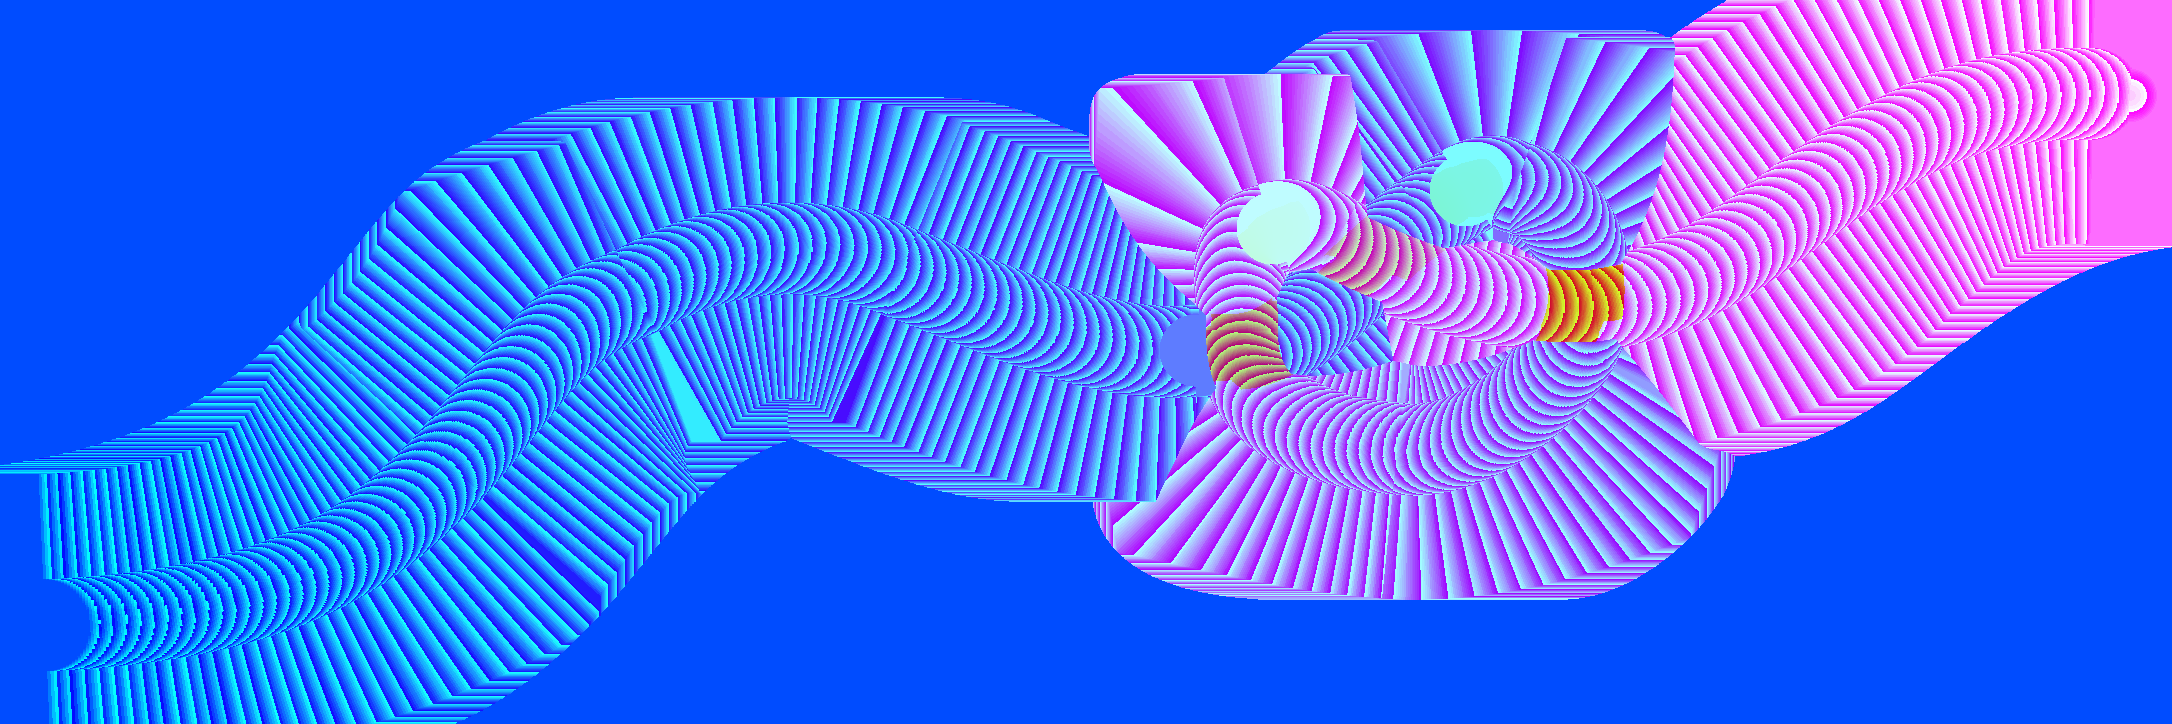
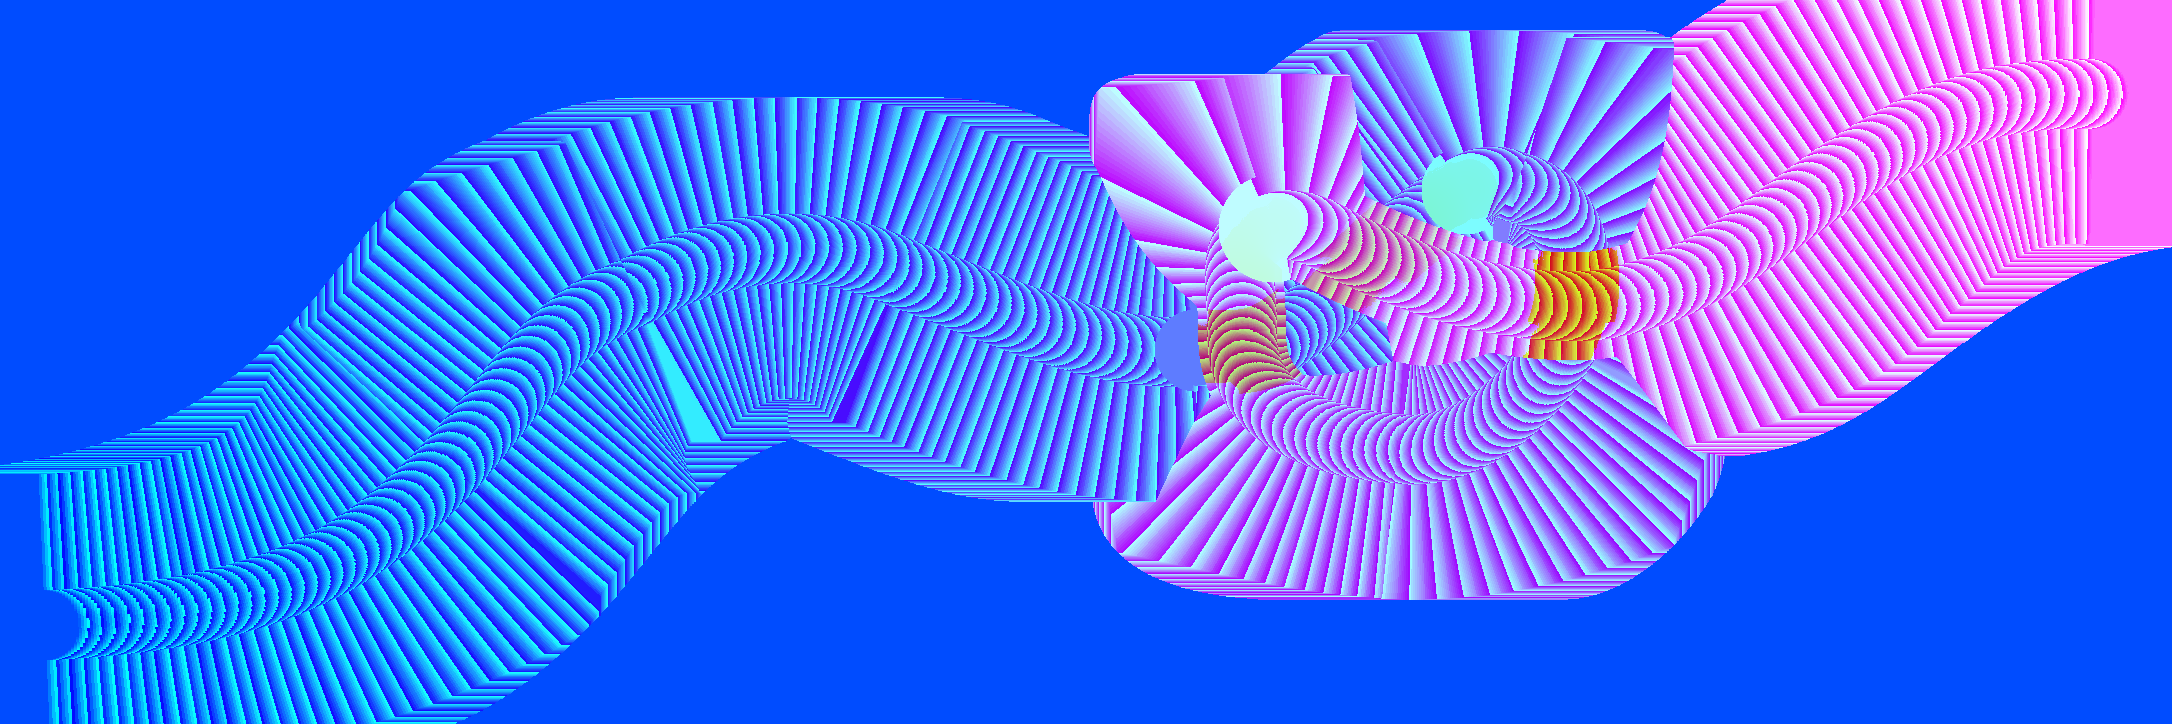
Smooth photographic rope underpass seams and leading edges

Changed region(s): [[0.0, 0.0608, 1.0, 0.942], [0.4936, 0.2431, 0.5244, 0.2735]]

diff --git a/app.js b/app.js
@@ -2263,13 +2263,14 @@ __modules["rope-photo.js"] = (() => {
 // Original photographic pixels, revealed in path order. No final-image replacement.
 const clamp01 = value => Math.max(0, Math.min(1, value));
 
-function revealPhotoPixels(photo, times, underTimes, bridgeIds, patches, progress, output) {
+function revealPhotoPixels(photo, times, underTimes, bridgeIds, patches, progress, output, originalBlend = null) {
   for (let i = 0, p = 0; i < times.length; i++, p += 4) {
-    const main = clamp01((progress - times[i]) / .0025);
     const patch = patches[bridgeIds[i] - 1];
-    const under = patch ? clamp01((progress - underTimes[i]) / .0025) * (1 - main) : 0;
+    const arrival = patch ? clamp01((progress - underTimes[i]) / .004) : 0;
+    const main = Math.max(clamp01((progress - times[i]) / .004), arrival * (originalBlend?.[i] || 0));
+    const under = arrival * (1 - main);
     const mainAlpha = photo[p + 3] * main;
-    const underAlpha = patch ? patch[p + 3] * under : 0;
+    const underAlpha = patch ? Math.min(photo[p + 3], patch[p + 3]) * under : 0;
     const alpha = mainAlpha + underAlpha;
     for (let c = 0; c < 3; c++) {
       output[p + c] = underAlpha ? (photo[p + c] * mainAlpha + patch[p + c] * underAlpha) / alpha : photo[p + c];
@@ -2278,11 +2279,15 @@ function revealPhotoPixels(photo, times, underTimes, bridgeIds, patches, progres
   }
 }
 
-function createPhotoRope(canvas, photoUrl, timelineUrl) {
+function createPhotoRope(canvas, photoUrl, timelineUrl, underpassUrl = './assets/identity-rope-underpass-uv.png?v=smooth-photo-joins-20261128') {
   const photo = new Image();
   const timeline = new Image();
+  const uvImage = new Image();
+  const coverageImage = new Image();
   photo.src = photoUrl;
   timeline.src = timelineUrl;
+  uvImage.src = underpassUrl;
+  coverageImage.src = './assets/identity-rope-underpass-coverage.png?v=smooth-photo-joins-20261128';
   let prepared;
   let progress = 1;
   let frame = 0;
@@ -2315,23 +2320,41 @@ function createPhotoRope(canvas, photoUrl, timelineUrl) {
       underTimes[i] = (((map[p + 1] >> 2) & 3) * 256 + map[p + 2]) / 1023;
       bridgeIds[i] = map[p + 1] & 3;
     }
-    const patches = [[1245,350,-16],[1385,255,-62],[1590,305,70]].map(([x,y,angle]) => {
-      const layer = surface(width, height);
-      const layerContext = layer.getContext('2d', {willReadFrequently:true});
-      layerContext.scale(width / 2172, height / 724);
-      layerContext.translate(x, y);
-      layerContext.rotate(angle * Math.PI / 180);
-      layerContext.translate(-1050, -328);
-      layerContext.drawImage(photo, 935, 275, 245, 115, 935, 275, 245, 115);
-      return layerContext.getImageData(0, 0, width, height).data;
-    });
-    prepared = {pixels, times, underTimes, bridgeIds, patches, output:context.createImageData(width, height)};
+    // Warp only the small occluded pieces, sampling original photographic
+    // fibers along the same curve instead of joining rigid rectangular crops.
+    ctx.clearRect(0,0,width,height);
+    ctx.drawImage(uvImage,0,0,width,height);
+    const uv = ctx.getImageData(0,0,width,height).data;
+    ctx.clearRect(0,0,width,height);
+    ctx.drawImage(coverageImage,0,0,width,height);
+    const coverage = ctx.getImageData(0,0,width,height).data;
+    const originalSurface = surface(2172,724);
+    const originalContext = originalSurface.getContext('2d',{willReadFrequently:true});
+    originalContext.drawImage(photo,0,0);
+    const original = originalContext.getImageData(0,0,2172,724).data;
+    const patch = new Uint8ClampedArray(pixels.length);
+    const originalBlend = new Float32Array(bridgeIds.length);
+    for(let i=0,p=0;i<bridgeIds.length;i++,p+=4) {
+      if(!bridgeIds[i]) continue;
+      const packed=(uv[p]<<16)|(uv[p+1]<<8)|uv[p+2];
+      const x=(packed>>11)/2, y=(packed&2047)/2;
+      const x0=Math.floor(x),y0=Math.floor(y),fx=x-x0,fy=y-y0;
+      for(let c=0;c<4;c++) {
+        const a=original[(y0*2172+x0)*4+c],b=original[(y0*2172+Math.min(2171,x0+1))*4+c];
+        const d=original[(Math.min(723,y0+1)*2172+x0)*4+c],e=original[(Math.min(723,y0+1)*2172+Math.min(2171,x0+1))*4+c];
+        patch[p+c]=(a*(1-fx)+b*fx)*(1-fy)+(d*(1-fx)+e*fx)*fy;
+      }
+      patch[p+3] *= coverage[p]/255;
+      originalBlend[i] = coverage[p+1]/255;
+    }
+    const patches = [patch,patch,patch];
+    prepared = {pixels, times, underTimes, bridgeIds, patches, originalBlend, output:context.createImageData(width, height)};
   }
   function render(value) {
     progress = clamp01(value);
     if (!prepared) return;
-    const {pixels,times,underTimes,bridgeIds,patches,output} = prepared;
-    revealPhotoPixels(pixels,times,underTimes,bridgeIds,patches,progress,output.data);
+    const {pixels,times,underTimes,bridgeIds,patches,originalBlend,output} = prepared;
+    revealPhotoPixels(pixels,times,underTimes,bridgeIds,patches,progress,output.data,originalBlend);
     context.putImageData(output, 0, 0);
     canvas.dataset.progress = progress.toFixed(4);
   }
@@ -2347,7 +2370,7 @@ function createPhotoRope(canvas, photoUrl, timelineUrl) {
     };
     frame = requestAnimationFrame(tick);
   }
-  const ready = Promise.all([photo.decode(), timeline.decode()]).then(() => {
+  const ready = Promise.all([photo.decode(), timeline.decode(), uvImage.decode(), coverageImage.decode()]).then(() => {
     prepare();
     render(1);
     canvas.hidden = false;
@@ -2965,7 +2988,7 @@ let threadInView = false;
 let threadStep = -1;
 let threadTimer;
 let threadImageReady = false;
-const ropePhoto = createPhotoRope(threadArtwork.querySelector('[data-rope-canvas]'), './assets/identity-rope.png', './assets/identity-rope-flow.png');
+const ropePhoto = createPhotoRope(threadArtwork.querySelector('[data-rope-canvas]'), './assets/identity-rope.png', './assets/identity-rope-flow.png?v=smooth-photo-joins-20261128');
 ropePhoto.ready.then(() => {
   threadImageReady = true;
   startThreadCycle();

diff --git a/rope-photo.js b/rope-photo.js
@@ -1,13 +1,14 @@
 // Original photographic pixels, revealed in path order. No final-image replacement.
 const clamp01 = value => Math.max(0, Math.min(1, value));
 
-export function revealPhotoPixels(photo, times, underTimes, bridgeIds, patches, progress, output) {
+export function revealPhotoPixels(photo, times, underTimes, bridgeIds, patches, progress, output, originalBlend = null) {
   for (let i = 0, p = 0; i < times.length; i++, p += 4) {
-    const main = clamp01((progress - times[i]) / .0025);
     const patch = patches[bridgeIds[i] - 1];
-    const under = patch ? clamp01((progress - underTimes[i]) / .0025) * (1 - main) : 0;
+    const arrival = patch ? clamp01((progress - underTimes[i]) / .004) : 0;
+    const main = Math.max(clamp01((progress - times[i]) / .004), arrival * (originalBlend?.[i] || 0));
+    const under = arrival * (1 - main);
     const mainAlpha = photo[p + 3] * main;
-    const underAlpha = patch ? patch[p + 3] * under : 0;
+    const underAlpha = patch ? Math.min(photo[p + 3], patch[p + 3]) * under : 0;
     const alpha = mainAlpha + underAlpha;
     for (let c = 0; c < 3; c++) {
       output[p + c] = underAlpha ? (photo[p + c] * mainAlpha + patch[p + c] * underAlpha) / alpha : photo[p + c];
@@ -16,11 +17,15 @@ export function revealPhotoPixels(photo, times, underTimes, bridgeIds, patches, 
   }
 }
 
-export function createPhotoRope(canvas, photoUrl, timelineUrl) {
+export function createPhotoRope(canvas, photoUrl, timelineUrl, underpassUrl = './assets/identity-rope-underpass-uv.png?v=smooth-photo-joins-20261128') {
   const photo = new Image();
   const timeline = new Image();
+  const uvImage = new Image();
+  const coverageImage = new Image();
   photo.src = photoUrl;
   timeline.src = timelineUrl;
+  uvImage.src = underpassUrl;
+  coverageImage.src = './assets/identity-rope-underpass-coverage.png?v=smooth-photo-joins-20261128';
   let prepared;
   let progress = 1;
   let frame = 0;
@@ -53,23 +58,41 @@ export function createPhotoRope(canvas, photoUrl, timelineUrl) {
       underTimes[i] = (((map[p + 1] >> 2) & 3) * 256 + map[p + 2]) / 1023;
       bridgeIds[i] = map[p + 1] & 3;
     }
-    const patches = [[1245,350,-16],[1385,255,-62],[1590,305,70]].map(([x,y,angle]) => {
-      const layer = surface(width, height);
-      const layerContext = layer.getContext('2d', {willReadFrequently:true});
-      layerContext.scale(width / 2172, height / 724);
-      layerContext.translate(x, y);
-      layerContext.rotate(angle * Math.PI / 180);
-      layerContext.translate(-1050, -328);
-      layerContext.drawImage(photo, 935, 275, 245, 115, 935, 275, 245, 115);
-      return layerContext.getImageData(0, 0, width, height).data;
-    });
-    prepared = {pixels, times, underTimes, bridgeIds, patches, output:context.createImageData(width, height)};
+    // Warp only the small occluded pieces, sampling original photographic
+    // fibers along the same curve instead of joining rigid rectangular crops.
+    ctx.clearRect(0,0,width,height);
+    ctx.drawImage(uvImage,0,0,width,height);
+    const uv = ctx.getImageData(0,0,width,height).data;
+    ctx.clearRect(0,0,width,height);
+    ctx.drawImage(coverageImage,0,0,width,height);
+    const coverage = ctx.getImageData(0,0,width,height).data;
+    const originalSurface = surface(2172,724);
+    const originalContext = originalSurface.getContext('2d',{willReadFrequently:true});
+    originalContext.drawImage(photo,0,0);
+    const original = originalContext.getImageData(0,0,2172,724).data;
+    const patch = new Uint8ClampedArray(pixels.length);
+    const originalBlend = new Float32Array(bridgeIds.length);
+    for(let i=0,p=0;i<bridgeIds.length;i++,p+=4) {
+      if(!bridgeIds[i]) continue;
+      const packed=(uv[p]<<16)|(uv[p+1]<<8)|uv[p+2];
+      const x=(packed>>11)/2, y=(packed&2047)/2;
+      const x0=Math.floor(x),y0=Math.floor(y),fx=x-x0,fy=y-y0;
+      for(let c=0;c<4;c++) {
+        const a=original[(y0*2172+x0)*4+c],b=original[(y0*2172+Math.min(2171,x0+1))*4+c];
+        const d=original[(Math.min(723,y0+1)*2172+x0)*4+c],e=original[(Math.min(723,y0+1)*2172+Math.min(2171,x0+1))*4+c];
+        patch[p+c]=(a*(1-fx)+b*fx)*(1-fy)+(d*(1-fx)+e*fx)*fy;
+      }
+      patch[p+3] *= coverage[p]/255;
+      originalBlend[i] = coverage[p+1]/255;
+    }
+    const patches = [patch,patch,patch];
+    prepared = {pixels, times, underTimes, bridgeIds, patches, originalBlend, output:context.createImageData(width, height)};
   }
   function render(value) {
     progress = clamp01(value);
     if (!prepared) return;
-    const {pixels,times,underTimes,bridgeIds,patches,output} = prepared;
-    revealPhotoPixels(pixels,times,underTimes,bridgeIds,patches,progress,output.data);
+    const {pixels,times,underTimes,bridgeIds,patches,originalBlend,output} = prepared;
+    revealPhotoPixels(pixels,times,underTimes,bridgeIds,patches,progress,output.data,originalBlend);
     context.putImageData(output, 0, 0);
     canvas.dataset.progress = progress.toFixed(4);
   }
@@ -85,7 +108,7 @@ export function createPhotoRope(canvas, photoUrl, timelineUrl) {
     };
     frame = requestAnimationFrame(tick);
   }
-  const ready = Promise.all([photo.decode(), timeline.decode()]).then(() => {
+  const ready = Promise.all([photo.decode(), timeline.decode(), uvImage.decode(), coverageImage.decode()]).then(() => {
     prepare();
     render(1);
     canvas.hidden = false;

diff --git a/index.html b/index.html
@@ -16,10 +16,10 @@
   <link rel="stylesheet" href="./typography.css?v=footer-slogan-size-20261125">
   <link rel="stylesheet" href="./process-reader.css?v=storyboard-review-20261125">
   <link rel="stylesheet" href="./contact.css?v=orange-profile-20261124">
-  <link rel="stylesheet" href="./home-editorial.css?v=continuous-photo-frames-20261128">
+  <link rel="stylesheet" href="./home-editorial.css?v=smooth-photo-joins-20261128">
   <link rel="stylesheet" href="./page-heading.css?v=shared-intro-20261125">
   <link rel="stylesheet" href="./detail-reading.css?v=storyboard-review-20261125">
-  <script defer src="./app.js?v=continuous-photo-frames-20261128"></script>
+  <script defer src="./app.js?v=smooth-photo-joins-20261128"></script>
 </head>
 <body>
   <a class="skip-link" href="#content">본문으로 건너뛰기</a>

diff --git a/script.js b/script.js
@@ -598,7 +598,7 @@ let threadInView = false;
 let threadStep = -1;
 let threadTimer;
 let threadImageReady = false;
-const ropePhoto = createPhotoRope(threadArtwork.querySelector('[data-rope-canvas]'), './assets/identity-rope.png', './assets/identity-rope-flow.png');
+const ropePhoto = createPhotoRope(threadArtwork.querySelector('[data-rope-canvas]'), './assets/identity-rope.png', './assets/identity-rope-flow.png?v=smooth-photo-joins-20261128');
 ropePhoto.ready.then(() => {
   threadImageReady = true;
   startThreadCycle();

diff --git a/build-rope-flow.py b/build-rope-flow.py
@@ -1,8 +1,8 @@
 """Generate reveal timing data for the unchanged original rope photo.
 
-Requires NumPy and Pillow. This writes only identity-rope-flow.png;
-identity-rope.png is read for its alpha channel and is never modified.
-RGB in the generated map stores timing and crossing ownership, not artwork.
+Requires NumPy and Pillow. This writes timing, source-coordinate, and edge
+coverage maps only. The original identity-rope.png is never modified; its
+photographic pixels are sampled directly by the browser.
 """
 from pathlib import Path
 import math,re,numpy as np
@@ -11,9 +11,9 @@ root=Path(__file__).resolve().parent
 paths=[
 'M40 625 C290 615 373 545 450 465 C530 374 550 323 635 291 C735 234 830 240 900 272 C1000 309 1100 360 1195 350',
 'M1195 350 C1240 354 1260 352 1290 331 C1340 298 1380 248 1425 217 C1440 205 1453 196 1465 190',
-'M1465 190 C1480 179 1500 178 1515 187 C1570 195 1607 277 1573 345 C1540 400 1465 458 1397 448 C1297 441 1238 400 1242 330 C1240 270 1230 238 1272 228',
+'M1465 190 C1480 179 1500 178 1515 187 C1570 195 1595 277 1562 345 C1530 400 1465 458 1397 448 C1297 441 1238 400 1242 330 C1240 270 1230 238 1272 228',
 'M1272 228 C1290 220 1315 228 1335 241 C1410 279 1500 311 1594 305 C1710 289 1770 217 1860 161 C1955 101 2020 88 2130 95']
-w,h=2172,724;fields=[];times=[]
+w,h=2172,724;fields=[];times=[];curves=[];raw_arcs=[]
 for d,delay,duration in zip(paths,[0,1.55,2.05,3.15],[1.55,.5,1.1,1.05]):
  n=list(map(float,re.findall(r'-?\d+(?:\.\d+)?',d)));p=n[:2];pts=[p]
  for k in range(2,len(n),6):
@@ -28,18 +28,50 @@ for d,delay,duration in zip(paths,[0,1.55,2.05,3.15],[1.55,.5,1.1,1.05]):
   xa,xb=max(0,int(x)-150),min(w,int(x)+151);ya,yb=max(0,int(y)-150),min(h,int(y)+151)
   dist=(np.arange(xa,xb,dtype=np.float32)[None,:]-x)**2+(np.arange(ya,yb,dtype=np.float32)[:,None]-y)**2
   better=dist<field[ya:yb,xa:xb];arc[ya:yb,xa:xb][better]=s;field[ya:yb,xa:xb][better]=dist[better]
+ curves.append((np.asarray(pts),np.asarray(cum)))
+ raw_arcs.append(arc.copy())
  # Time at which a circular leading end reaches each original photographic pixel.
- arc-=np.sqrt(np.maximum(0,46**2-field));t=delay+np.clip(arc/cum[-1],0,1)*duration
+ arc-=np.sqrt(np.maximum(0,35**2-field));t=delay+np.clip(arc/cum[-1],0,1)*duration
  fields.append(field);times.append(t/4.2)
 labels=np.argmin(fields,axis=0)
-for i in [1,2,3]:labels[fields[i]<36**2]=i
+for i,radius in [(1,41),(2,44),(3,54)]:labels[fields[i]<radius**2]=i
 main=np.take_along_axis(np.stack(times),labels[None,:,:],axis=0)[0]
 main=np.clip(main,.001,.99);under=np.ones((h,w),np.float32);bridge=np.zeros((h,w),np.uint8)
 alpha=np.asarray(Image.open(root/'assets/identity-rope.png'))[:,:,3]
 for route,owner,number in [(1,2,1),(1,3,2),(2,3,3)]:
- use=(labels==owner)&(fields[route]<38**2)&(times[route]<main-.005)&(alpha>240)
+ use=(labels==owner)&(fields[route]<42**2)&(times[route]<main-.005)&(alpha>8)
  under[use]=times[route][use];bridge[use]=number
 primary=np.round(main*4095).astype(np.uint16);secondary=np.round(np.clip(under,0,1)*1023).astype(np.uint16)
 encoded=np.zeros((h,w,3),np.uint8);encoded[:,:,0]=primary>>4;encoded[:,:,1]=((primary&15)<<4)|((secondary>>8)<<2)|bridge;encoded[:,:,2]=secondary&255
 Image.fromarray(encoded).save(root/'assets/identity-rope-flow.png',optimize=True)
+# Coordinate map only: the browser samples the original photograph at these UVs.
+# No replacement rope texture or recolored photographic asset is generated.
+def point_at(route, arc):
+ pts,cum=curves[route];arc=np.clip(arc,0,cum[-1])
+ x=np.interp(arc,cum,pts[:,0]);y=np.interp(arc,cum,pts[:,1])
+ before=np.maximum(0,arc-.5);after=np.minimum(cum[-1],arc+.5)
+ dx=np.interp(after,cum,pts[:,0])-np.interp(before,cum,pts[:,0]);dy=np.interp(after,cum,pts[:,1])-np.interp(before,cum,pts[:,1]);length=np.hypot(dx,dy)
+ return x,y,-dy/length,dx/length
+uv=np.zeros((h,w,3),np.uint8);coverage=np.zeros((h,w,3),np.uint8)
+for route,source_route,number,shift in [(1,0,1,1180),(1,1,2,-100),(2,2,3,90)]:
+ yy,xx=np.where(bridge==number);dest_arc=raw_arcs[route][yy,xx]
+ dx,dy,dnx,dny=point_at(route,dest_arc);normal=(xx-dx)*dnx+(yy-dy)*dny
+ fade=np.clip((34-np.abs(normal))/7,0,1);fade=fade*fade*(3-2*fade);coverage[yy,xx,0]=np.round(fade*255).astype(np.uint8)
+ owner=2 if number==1 else 3;radius=44 if owner==2 else 54
+ seam=np.clip((np.sqrt(fields[owner][yy,xx])-(radius-12))/12,0,1);seam=seam*seam*(3-2*seam)
+ coverage[yy,xx,1]=np.round(seam*fade*255).astype(np.uint8)
+ sx,sy,snx,sny=point_at(source_route,dest_arc+shift)
+ # Center the source sample on its photographed fibers, then retain the full
+ # source width at the destination's soft silhouette.
+ offsets=np.arange(-44,45)[None,:];px=np.clip(np.round(sx[:,None]+snx[:,None]*offsets),0,w-1).astype(int);py=np.clip(np.round(sy[:,None]+sny[:,None]*offsets),0,h-1).astype(int)
+ opaque=alpha[py,px]>240
+ lo=np.min(np.where(opaque,offsets,99),axis=1);hi=np.max(np.where(opaque,offsets,-99),axis=1)
+ valid=lo<=hi;lo=np.where(valid,lo,-28);hi=np.where(valid,hi,28)
+ center=(lo+hi)/2;radius=np.maximum(1,(hi-lo)/2-1)
+ sample=center+np.clip(normal/40,-1,1)*radius
+ sx+=snx*sample;sy+=sny*sample
+ ux=np.clip(np.round(sx*2),0,w*2-1).astype(np.uint32);uy=np.clip(np.round(sy*2),0,h*2-1).astype(np.uint32);packed=(ux<<11)|uy
+ uv[yy,xx,0]=(packed>>16)&255;uv[yy,xx,1]=(packed>>8)&255;uv[yy,xx,2]=packed&255
+Image.fromarray(uv).save(root/'assets/identity-rope-underpass-uv.png',optimize=True)
+Image.fromarray(coverage).save(root/'assets/identity-rope-underpass-coverage.png',optimize=True)
 print({'map_bytes':(root/'assets/identity-rope-flow.png').stat().st_size,'underpass_pixels':int(np.count_nonzero(bridge)),'latest_pixel':float(main[alpha>0].max())})
